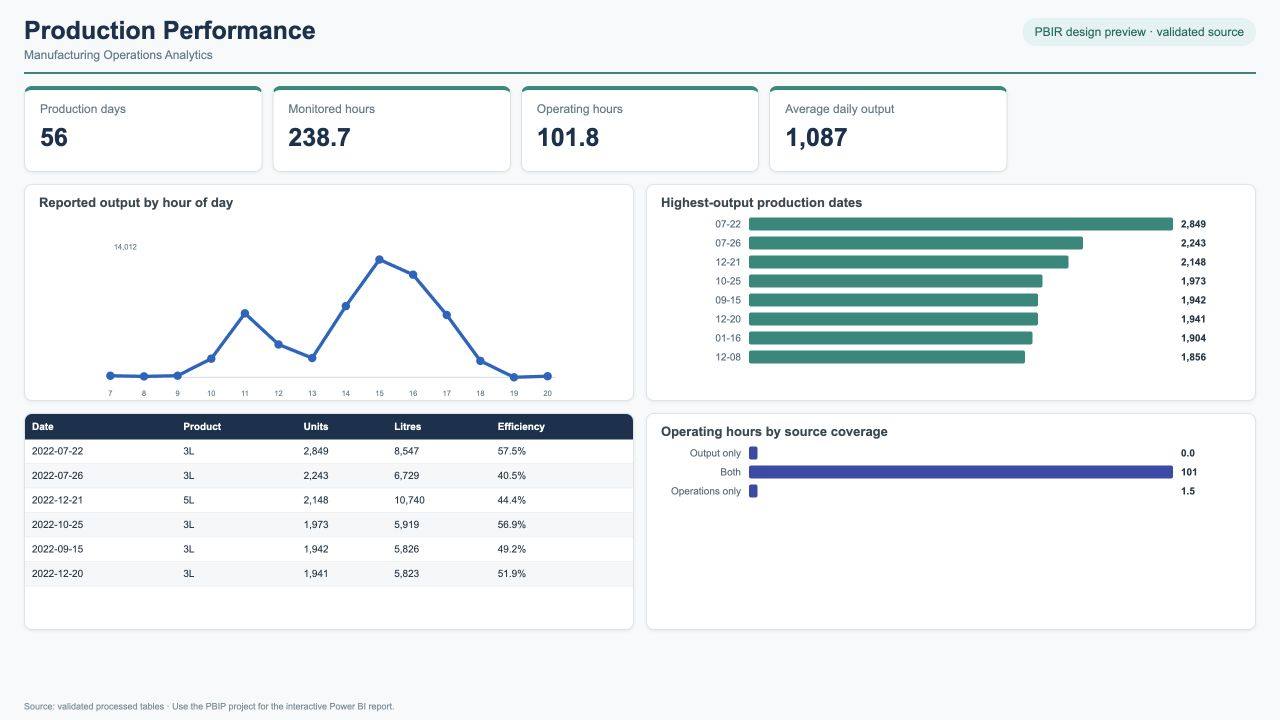
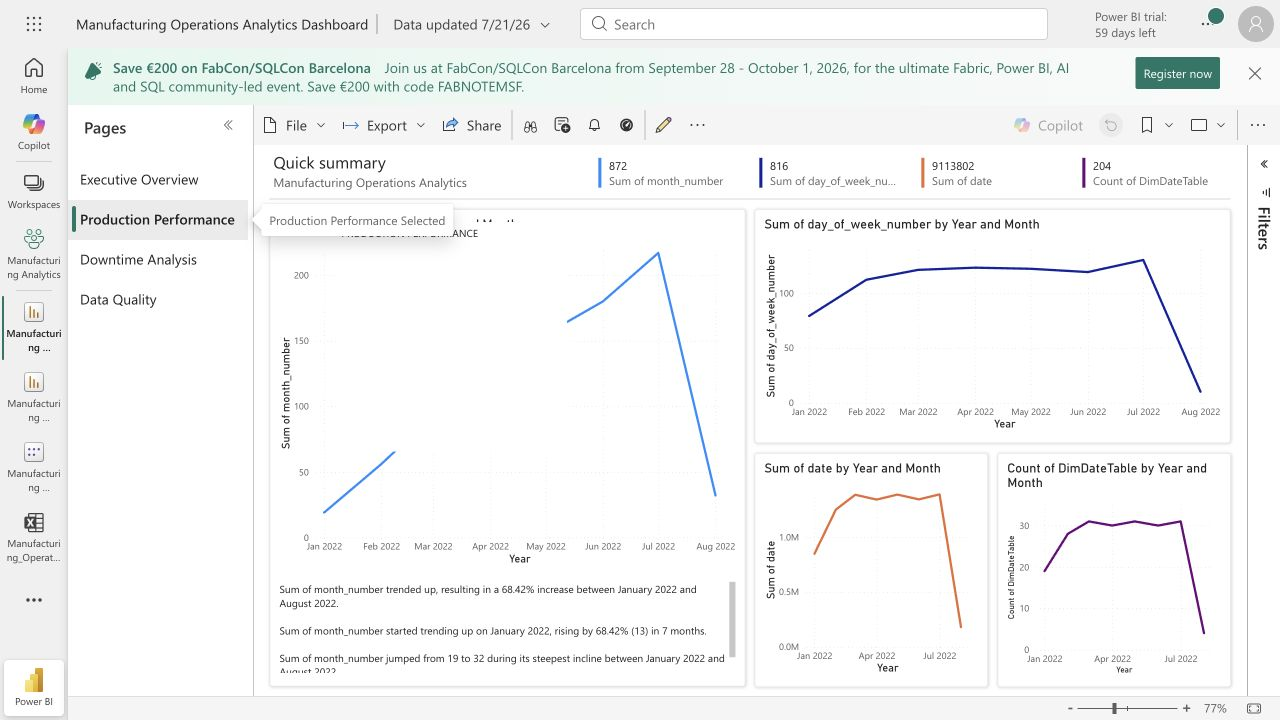
Add Power BI Service report screenshots

diff --git a/README.md b/README.md
@@ -4,15 +4,19 @@
 [![Tests](https://github.com/agbajames/manufacturing-operations-analytics/actions/workflows/ci.yml/badge.svg)](https://github.com/agbajames/manufacturing-operations-analytics/actions/workflows/ci.yml)
 [![License: MIT](https://img.shields.io/badge/Code-MIT-2BAE9B.svg)](LICENSE)
 
-An end-to-end manufacturing analytics project that uses Python and SQL to transform real industrial filling-line data into an auditable star schema for production, efficiency and downtime analysis. The repository includes an editable Power BI Project (`.pbip`) with a TMDL semantic model, four PBIR report pages and data-backed page previews.
+An end-to-end manufacturing analytics project that uses Python and SQL to transform real industrial filling-line data into an auditable star schema for production, efficiency and downtime analysis. The repository includes an editable Power BI Project (`.pbip`) with a TMDL semantic model, four PBIR report pages and Power BI Service-rendered screenshots.
 
 ![Analytical review workbook preview](assets/workbook_preview.png)
 
-![Power BI Executive Overview preview](assets/powerbi/01-executive-overview.png)
+![Power BI Executive Overview](assets/powerbi/01-executive-overview.png)
+
+| Production Performance | Downtime Analysis | Data Quality |
+|---|---|---|
+| ![Power BI Production Performance](assets/powerbi/02-production-performance.png) | ![Power BI Downtime Analysis](assets/powerbi/03-downtime-analysis.png) | ![Power BI Data Quality](assets/powerbi/04-data-quality-governance.png) |
 
 ## Implementation status
 
-Completed deliverables include the tested ETL pipeline, processed star-schema tables, SQLite database, PostgreSQL scripts, analytical review workbook, reusable DAX measures, and an editable Power BI Project. The PBIR definition validates with Microsoft's report-authoring CLI. A native `.pbix`/`.pbit` still requires Power BI Desktop on Windows; the checked-in screenshots are explicitly labelled data-backed design previews until that Desktop render is completed.
+Completed deliverables include the tested ETL pipeline, processed star-schema tables, SQLite database, PostgreSQL scripts, analytical review workbook, reusable DAX measures, an editable Power BI Project, and a four-page companion report published in Power BI Service. The service report is connected to the seven-table semantic model and provides genuine cloud-rendered screenshots. The PBIR definition validates with Microsoft's report-authoring CLI. A native `.pbix`/`.pbit` still requires Power BI Desktop on Windows.
 
 ## Business problem
 
@@ -64,7 +68,7 @@ The facts are deliberately not joined to one another. Shared dimensions filter e
 
 ```text
 manufacturing-operations-analytics/
-├── assets/                         # Workbook and Power BI page previews
+├── assets/                         # Workbook preview and Power BI Service captures
 ├── data/
 │   ├── raw/                        # Licensed source workbook
 │   ├── processed/                  # Power BI-ready star-schema tables

diff --git a/powerbi/README.md b/powerbi/README.md
@@ -48,13 +48,19 @@ If the repository becomes private, replace the Web source in each TMDL partition
 
 ## Screenshots
 
-The files in `assets/powerbi/` are data-backed design previews generated from the same processed tables. They are intentionally labelled as PBIR design previews; replace them with final Power BI Desktop captures after opening and refreshing the `.pbip` project on Windows.
+The four files in `assets/powerbi/` are genuine Power BI Service captures of the private companion report published in the **Manufacturing Analytics** workspace:
 
-Rebuild the project and previews with:
+- `01-executive-overview.png`
+- `02-production-performance.png`
+- `03-downtime-analysis.png`
+- `04-data-quality-governance.png`
+
+The cloud report is connected to a semantic model containing the seven imported workbook tables and demonstrates publishing, report navigation and service rendering. The checked-in PBIR project remains the richer source-controlled report specification. A native `.pbix` or `.pbit` still requires Power BI Desktop on Windows.
+
+Rebuild the source-controlled project with:
 
 ```bash
 node scripts/build_powerbi_project.mjs
-node scripts/build_powerbi_previews.mjs
 ```
 
 Validate PBIR source with Microsoft's `powerbi-report-author` CLI before committing. The generated PBIR currently validates with zero errors and zero warnings.
